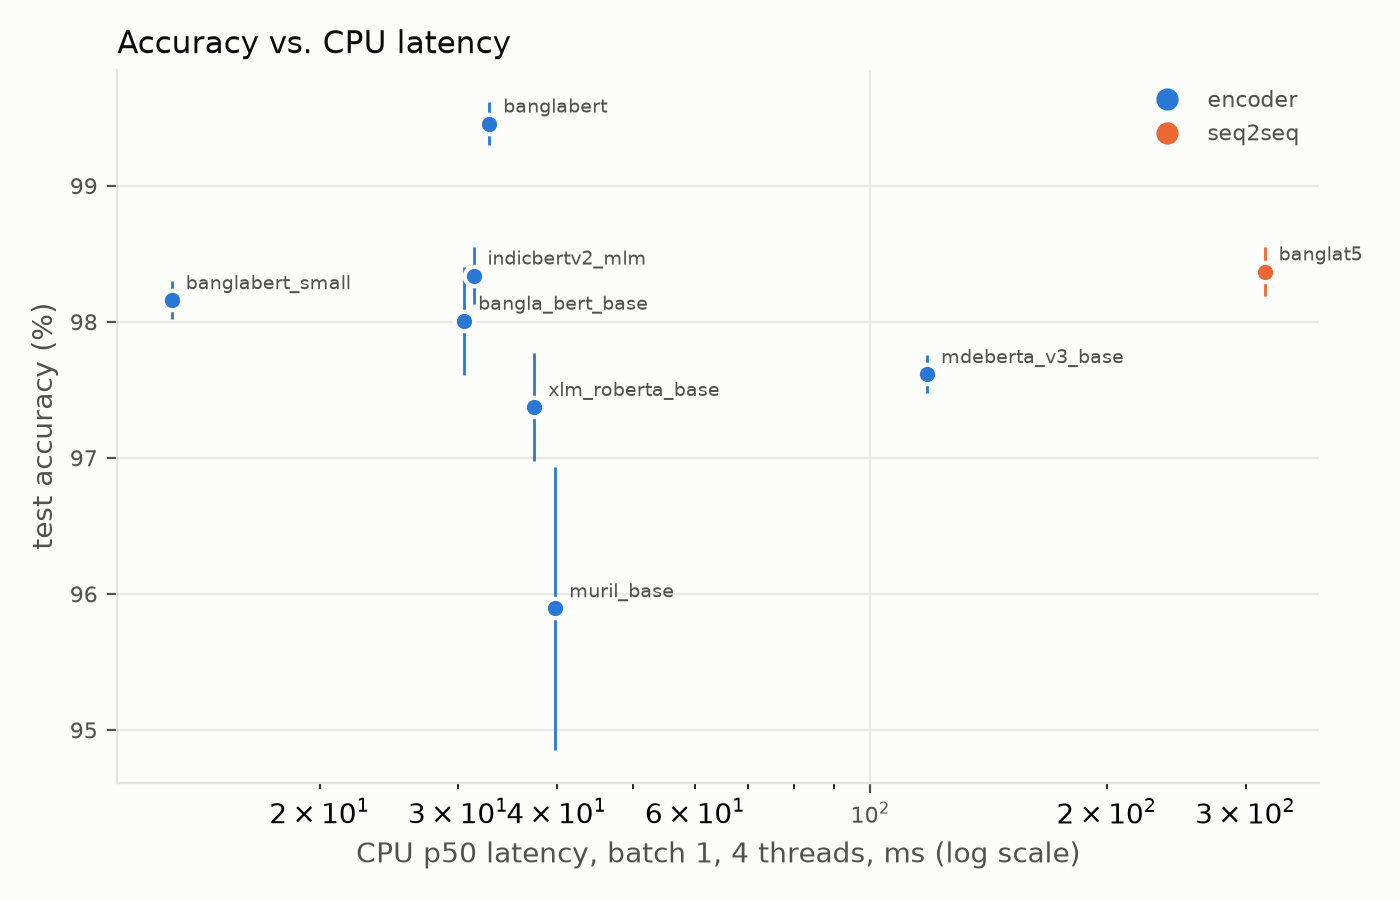
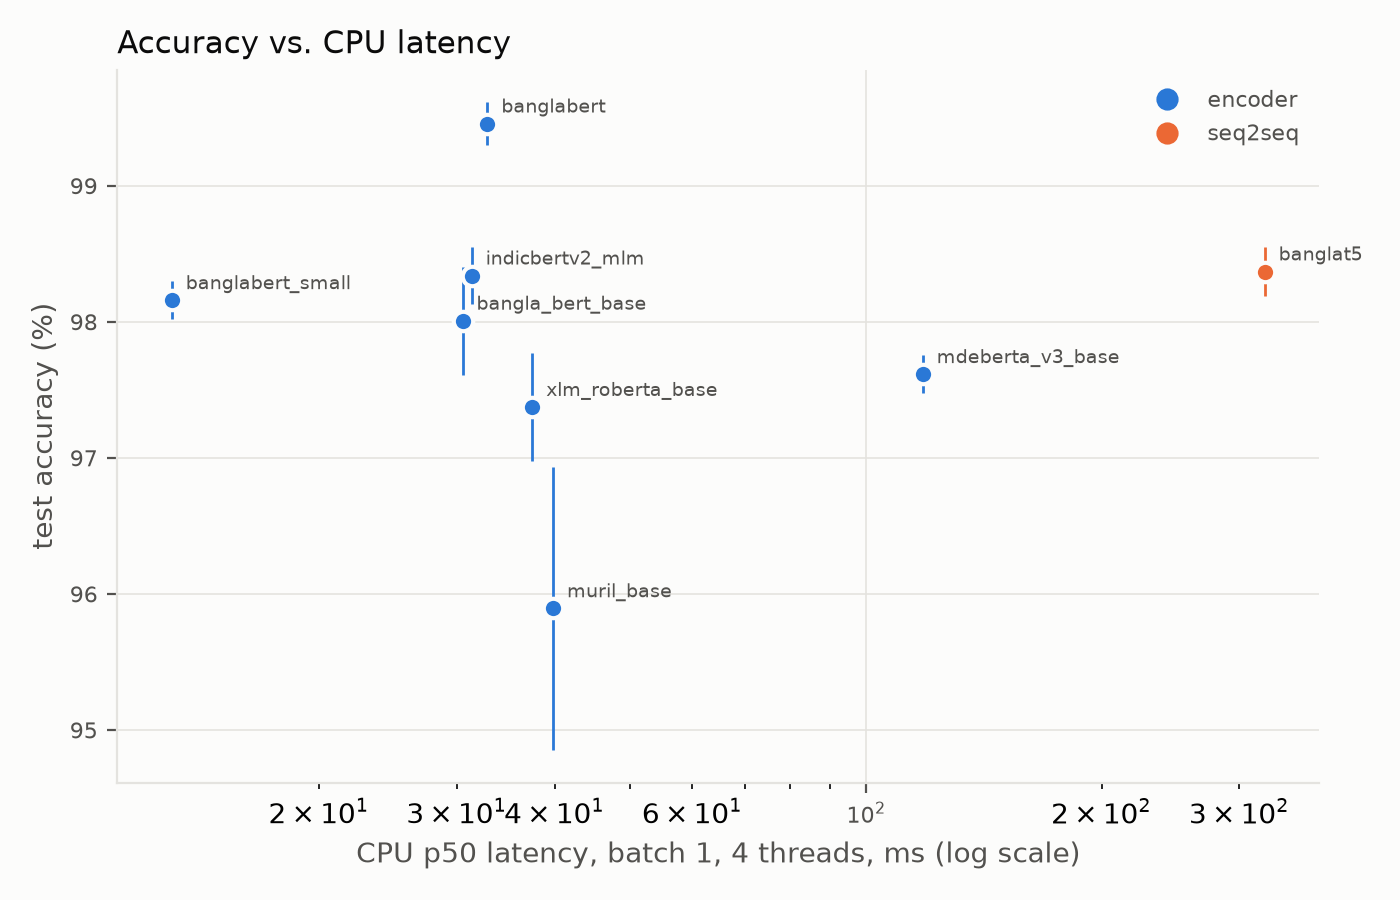
Re-run banglat5 latency with the fixed seq2seq confidence code

diff --git a/EXPERIMENT_LOG.md b/EXPERIMENT_LOG.md
@@ -12,17 +12,17 @@ Latency = batch size 1, full path (normalizer + tokenizer + model + decoding), p
 | 2 | banglabert | 110.0M | fp16 | 2e-05 | 99.46 ± 0.16 | 99.40 ± 0.16 | 3.7 | 12.5 | 32.8 | 421 MB | done |
 | 3 | bangla_bert_base | 164.4M | fp16 | 2e-05 | 98.01 ± 0.39 | 97.93 ± 0.41 | 4.4 | 10.6 | 30.5 | 633 MB | done |
 | 4 | muril_base | 237.6M | fp16 | 5e-05 | 95.89 ± 1.04 | 95.54 ± 1.13 | 5.7 | 10.3 | 39.8 | 915 MB | done |
-| 5 | banglat5 | 247.6M | fp32 | 0.0005 | 98.37 ± 0.18 | 98.37 ± 0.12 | 31.4 | 235.6 | 317.4 | 948 MB | done |
+| 5 | banglat5 | 247.6M | fp32 | 0.0005 | 98.37 ± 0.18 | 98.37 ± 0.12 | 31.4 | 236.8 | 323.3 | 948 MB | done |
 | 6 | xlm_roberta_base | 278.0M | fp16 | 2e-05 | 97.37 ± 0.39 | 97.27 ± 0.36 | 6.5 | 10.3 | 37.5 | 1082 MB | done |
 | 7 | indicbertv2_mlm | 278.0M | fp16 | 5e-05 | 98.34 ± 0.21 | 98.29 ± 0.21 | 6.2 | 11.3 | 31.4 | 1068 MB | done |
 | 8 | mdeberta_v3_base | 278.2M | fp32 | 3e-05 | 97.61 ± 0.14 | 97.48 ± 0.10 | 21.2 | 24.9 | 118.2 | 1081 MB | done |
-| 9 | mt5_small | ~300M |  |  |  |  |  |  |  |  | pending |
-| 10 | byt5_small | ~300M |  |  |  |  |  |  |  |  | pending |
+| 9 | mt5_small | ~300M |  |  |  |  |  |  |  |  | running |
+| 10 | byt5_small | ~300M |  |  |  |  |  |  |  |  | running |
 | 11 | banglabert_large | ~335M |  |  |  |  |  |  |  |  | pending |
 | 12 | xlm_roberta_large | ~560M |  |  |  |  |  |  |  |  | pending |
 | 13 | mt5_base | ~580M |  |  |  |  |  |  |  |  | pending |
 
-Disk used by `checkpoints/`: 6.1G.
+Disk used by `checkpoints/`: 7.2G.
 <!-- /results-table -->
 
 ## Observations for the paper
@@ -176,20 +176,22 @@ output the full phonetic sentence, greedy decoding, normalizer on, ZWNJ removed 
 alters words other than the target. Dev 98.91 / 98.28 / 98.55; seed 42 kept. Best epochs 11 / 7 / 7 (stopped
 after 14 / 10 / 10), 28-39 min per seed, peak training memory 4.7 GB, checkpoint 948 MB.
 
-**Latency.** Greedy decoding of the whole sentence, 10.5 generated tokens on average.
+**Latency.** Greedy decoding of the whole sentence, 10.5 generated tokens on average. Re-measured on
+2026-10-19 07:14 with the fixed confidence code (see the mt5_small entry); the first measurement was within noise
+of these numbers (GPU p50 235.6 vs 236.8 ms, CPU-4 317.4 vs 323.3 ms) but used 1.9 GB peak GPU memory.
 
 | device | precision | p50 | p95 | p99 | forward (generate) p50 | throughput | paragraph (8 heteronyms) |
 |---|---|---|---|---|---|---|---|
-| T4 GPU | fp32 | 235.6 ms | 415.7 ms | 493.4 ms | 233.4 ms | 21 /s (b8), 66 /s (b32) | 536.4 ms (67.0 ms/heteronym) |
-| CPU, 4 threads | fp32 | 317.4 ms | 543.3 ms | 634.1 ms | 316.4 ms | 10 /s (b8) | 1173.5 ms (146.7 ms/heteronym) |
-| CPU, 1 thread | fp32 | 688.1 ms | 1256.1 ms | 1434.7 ms | 731.1 ms | - | 3246.2 ms (405.8 ms/heteronym) |
+| T4 GPU | fp32 | 236.8 ms | 410.6 ms | 481.1 ms | 235.5 ms | 21 /s (b8), 67 /s (b32) | 532.1 ms (66.5 ms/heteronym) |
+| CPU, 4 threads | fp32 | 323.3 ms | 555.1 ms | 645.1 ms | 320.5 ms | 9 /s (b8) | 1261.8 ms (157.7 ms/heteronym) |
+| CPU, 1 thread | fp32 | 745.9 ms | 1286.5 ms | 1488.5 ms | 744.2 ms | - | 3242.8 ms (405.4 ms/heteronym) |
 
-Peak GPU memory at inference: 1.9 GB.
+Peak GPU memory at inference: 1.2 GB.
 
 **phoneticize demo.** All 8 correct, confidences ≥ 0.997.
 
 **Observations.** The seq2seq formulation is competitive (98.37, between banglabert_small and banglabert) and
-needs no candidate list at inference, but it is ~19× slower than the encoders on the T4 at batch 1 (235.6 vs
+needs no candidate list at inference, but it is ~20× slower than the encoders on the T4 at batch 1 (236.8 vs
 ~12 ms): each output token is a decoder step, and fp32 is required (T5 NaNs in fp16). The latency is also more
 variable (p95 1.8× p50) because it grows with sentence length. Training a seed costs ~30 min vs ~4 min for a
 base encoder. Hardest words: কর (77.8%), চষে (77.8%), গলে / কাল / ঘটে / চটে (83.3%).

diff --git a/results/summary.md b/results/summary.md
@@ -10,7 +10,7 @@ Accuracy and macro-F1 in %, mean ± std over seeds. Latency: batch 1, full path,
 | banglabert | encoder | 110.0M | fp16 | 32x1 | 2e-05 | 3 | 99.46 ± 0.16 | 99.40 ± 0.16 | 99.7 / 87.0 |  | 3.7 | 9.3 | 12.5 | 32.8 | 84.5 |
 | bangla_bert_base | encoder | 164.4M | fp16 | 32x1 | 2e-05 | 3 | 98.01 ± 0.39 | 97.93 ± 0.41 | 98.1 / 94.4 |  | 4.4 | 9.7 | 10.6 | 30.5 | 82.8 |
 | muril_base | encoder | 237.6M | fp16 | 32x1 | 5e-05 | 3 | 95.89 ± 1.04 | 95.54 ± 1.13 | 96.3 / 68.5 |  | 5.7 | 10.0 | 10.3 | 39.8 | 104.5 |
-| banglat5 | seq2seq | 247.6M | fp32 | 16x1 | 0.0005 | 3 | 98.37 ± 0.18 | 98.37 ± 0.12 | 98.5 / 88.9 | 0.6 | 31.4 | 11.3 | 235.6 | 317.4 | 688.1 |
+| banglat5 | seq2seq | 247.6M | fp32 | 16x1 | 0.0005 | 3 | 98.37 ± 0.18 | 98.37 ± 0.12 | 98.5 / 88.9 | 0.6 | 31.4 | 11.3 | 236.8 | 323.3 | 745.9 |
 | xlm_roberta_base | encoder | 278.0M | fp16 | 32x1 | 2e-05 | 3 | 97.37 ± 0.39 | 97.27 ± 0.36 | 97.5 / 90.7 |  | 6.5 | 9.7 | 10.3 | 37.5 | 95.9 |
 | indicbertv2_mlm | encoder | 278.0M | fp16 | 32x1 | 5e-05 | 3 | 98.34 ± 0.21 | 98.29 ± 0.21 | 98.3 / 100.0 |  | 6.2 | 10.0 | 11.3 | 31.4 | 82.0 |
 | mdeberta_v3_base | encoder | 278.2M | fp32 | 16x2 | 3e-05 | 3 | 97.61 ± 0.14 | 97.48 ± 0.10 | 97.8 / 87.0 |  | 21.2 | 9.7 | 24.9 | 118.2 | 316.5 |

diff --git a/README.md b/README.md
@@ -101,7 +101,7 @@ Full tables: [results/summary.md](results/summary.md), [results/latency.csv](res
 | 2 | banglabert | 110.0M | fp16 | 2e-05 | 99.46 ± 0.16 | 99.40 ± 0.16 | 3.7 | 12.5 | 32.8 |
 | 3 | bangla_bert_base | 164.4M | fp16 | 2e-05 | 98.01 ± 0.39 | 97.93 ± 0.41 | 4.4 | 10.6 | 30.5 |
 | 4 | muril_base | 237.6M | fp16 | 5e-05 | 95.89 ± 1.04 | 95.54 ± 1.13 | 5.7 | 10.3 | 39.8 |
-| 5 | banglat5 | 247.6M | fp32 | 0.0005 | 98.37 ± 0.18 | 98.37 ± 0.12 | 31.4 | 235.6 | 317.4 |
+| 5 | banglat5 | 247.6M | fp32 | 0.0005 | 98.37 ± 0.18 | 98.37 ± 0.12 | 31.4 | 236.8 | 323.3 |
 | 6 | xlm_roberta_base | 278.0M | fp16 | 2e-05 | 97.37 ± 0.39 | 97.27 ± 0.36 | 6.5 | 10.3 | 37.5 |
 | 7 | indicbertv2_mlm | 278.0M | fp16 | 5e-05 | 98.34 ± 0.21 | 98.29 ± 0.21 | 6.2 | 11.3 | 31.4 |
 | 8 | mdeberta_v3_base | 278.2M | fp32 | 3e-05 | 97.61 ± 0.14 | 97.48 ± 0.10 | 21.2 | 24.9 | 118.2 |
